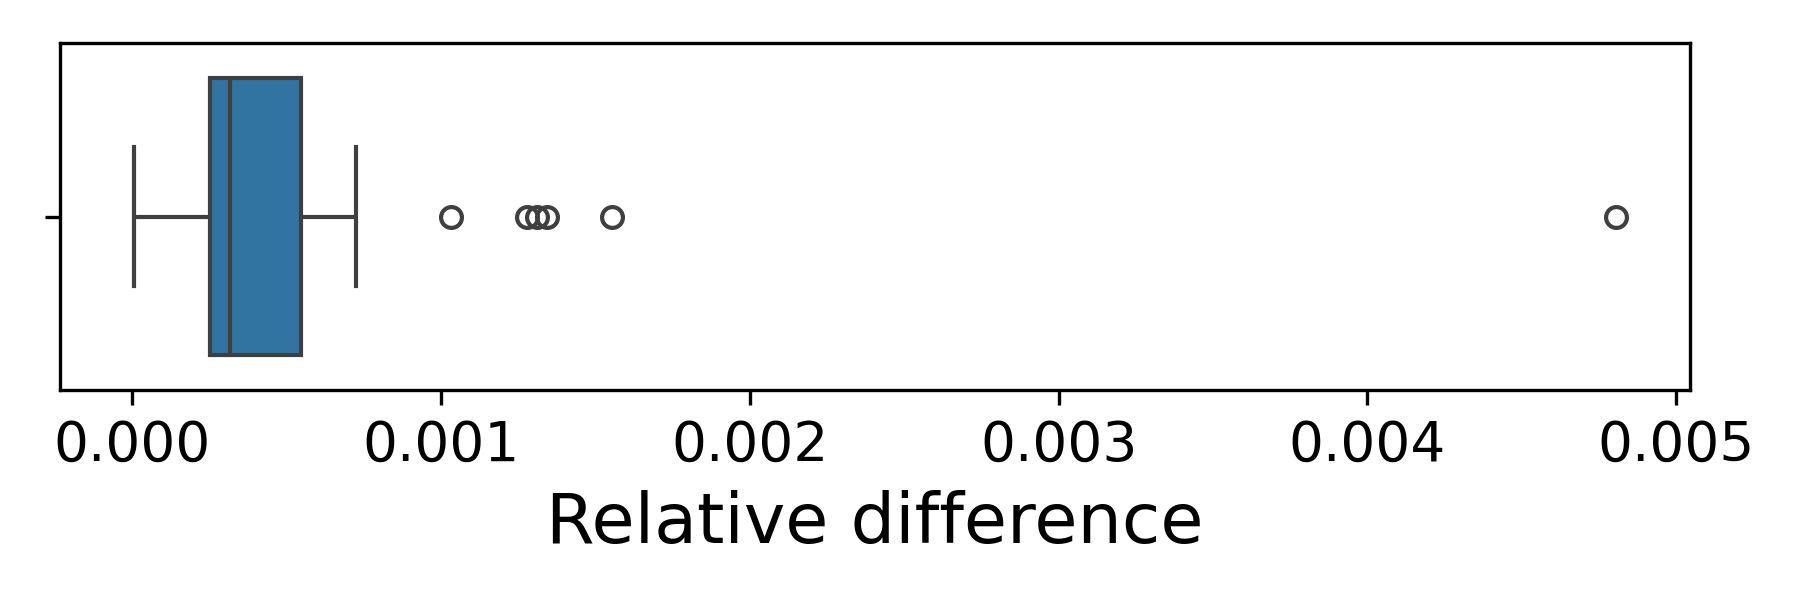
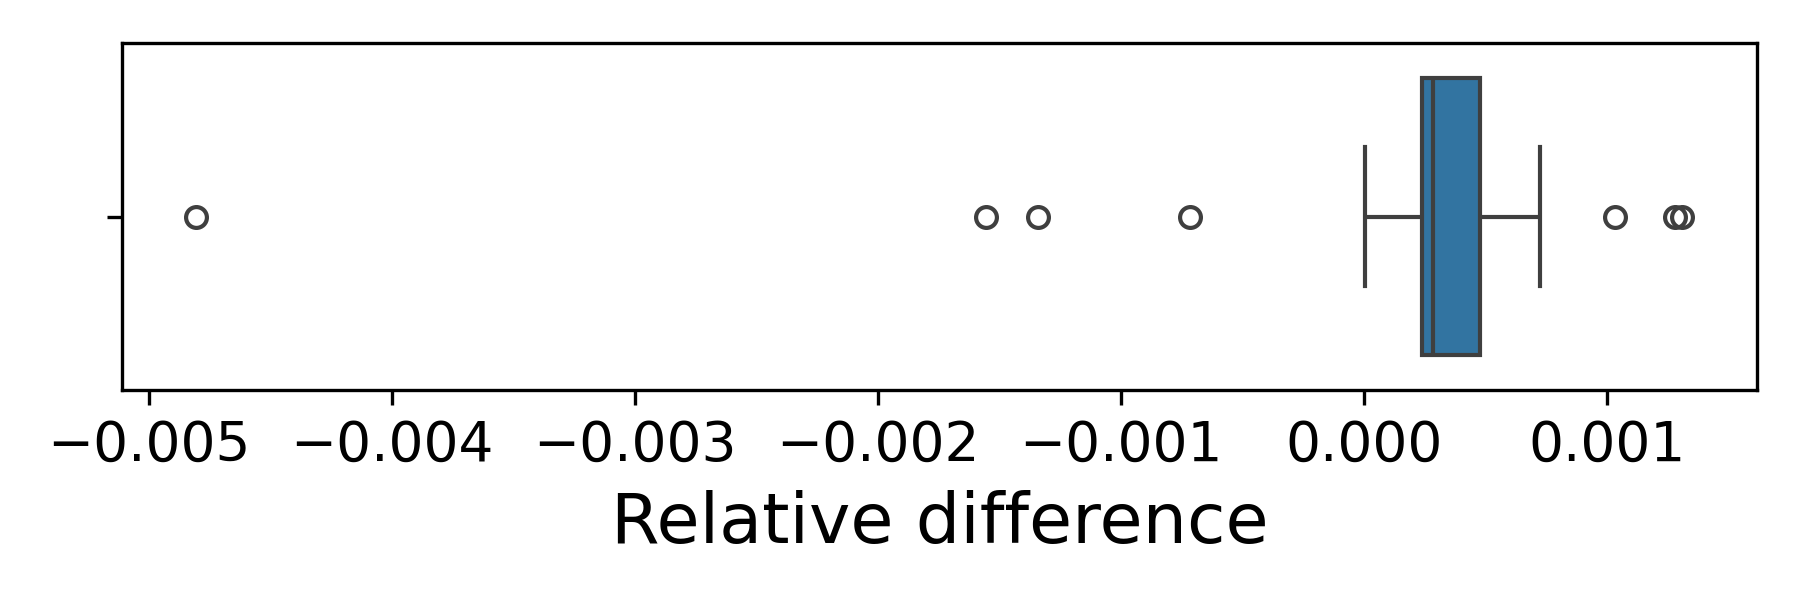
commitiiiniininining

diff --git a/report/report.tex b/report/report.tex
@@ -71,7 +71,7 @@
 				These choices were motivated by our understanding of section 1.4 of [2]. 
 			\subsubsection{WLS Approach}
 			In this section, we consider the normal approximation for the binomial variable $R$ (the same-side flips within a sequence) with denominator $m$ (number of flips within a sequence). 
-			Having that the success probability is fairly close to 0.5 we get $p(1-p)\approx1/4$. Hence we end up with the approximation $R/m \sim N(p,1/(4m))$. 
+			Having that the success probability is fairly close to 0.5 we get $p(1-p)\approx1/4$. We end up with the approximation $R/m \sim N(p,1/(4m))$. 
 
 			\begin{table}[htb]
 				\centering
@@ -128,7 +128,7 @@
 				p(\texttt{person},\texttt{coin},\texttt{agg}) = \alpha_0 + \alpha_{\texttt{person}}+\alpha_{\texttt{coin}} +\alpha_{\texttt{agg}}\cdot\texttt{agg} +\alpha_{\texttt{person},\texttt{coin}} + \epsilon_{\texttt{person},\texttt{coin},\texttt{agg}},
 			\end{equation}
 			where parameter $\alpha_0$ is a constant. To each person (resp. coin) is is associated a parameter
-			$\alpha_{\texttt{person}}$ (resp. $\alpha_{\texttt{coin}}$). To each person-coin pair is also associated a parameter $\alpha_{\texttt{person},\texttt{coin}}$. The coefficient $\alpha_{\texttt{agg}}$ represents the impact of time (number of the sequence). All other models are nested versions where some of the coefficients are imposed to be equal to 0.
+			$\alpha_{\texttt{person}}$ (resp. $\alpha_{\texttt{coin}}$). To each person-coin pair is also associated a parameter $\alpha_{\texttt{person},\texttt{coin}}$. The coefficient $\alpha_{\texttt{agg}}$ represents the impact of time (number of the sequence). $\epsilon_{\texttt{person},\texttt{coin},\texttt{agg}}$ is a normal error term. All other models are nested versions where some of the coefficients are imposed to be equal to 0.
 
 			
 			As explained in [3], if interaction terms are not present, one should consider ANOVA of type II when dealing with unbalanced datasets.
@@ -210,15 +210,15 @@
 			\end{figure}	
 		%\newpage
 		\subsection{WLS vs GLM parameters}
-			In this section we would like to compare the coefficients outputted by the GLM and the WLS models. This requires some transformations of the variables as the two models are formulated in different terms. Indeed, in the WLS model, the response is linear with respect to the coefficients, while in the GLM model it is the log odds that is linear in the parameters. Let's for now ignore the role of time in the model (for example by setting time to 0). Let's call $\beta_{p}$ the coefficient corresponding to the person $p$ in the GLM model and $\beta_{0}$ the constant term (intercept). Then the impact on the reponse of selecting the person $p$ as the person throwing the coin will be equal to $\tilde{\beta}_{p}$=expit($\beta_{0}$+$\beta_{p}$)-expit($\beta_{0}$), where expit is the reciprocal function of logit. Thus we have derived this quantity in order to compare it directly to the coefficient $\alpha_{p}$ of the WLS model that consitutes a linear contribution. \ref{fig:parameter_differences_boxplot} reports the boxplot of the relative differences between the WLS parameters $\alpha_{p}$ and the GLM transformed parameters $\tilde{\beta}_{p}$. 
+			In this section we would like to compare the coefficients outputted by the GLM and the WLS models. This requires a transformation of the coefficients as the two models are formulated in different terms. Indeed, in the WLS model, the response is linear with respect to the coefficients, while in the GLM model it is the log odds that is linear in the parameters. Let's for now ignore the role of time in the model (for example by setting time to 0). Let's call $\beta_{p}$ the coefficient corresponding to the person $p$ in the GLM model and $\beta_{0}$ the constant term (intercept). Then the impact on the reponse of selecting the person $p$ as the person throwing the coin will be equal to $\tilde{\beta}_{p}$=expit($\beta_{0}$+$\beta_{p}$)-expit($\beta_{0}$), where expit is the reciprocal function of logit. Thus we have derived this quantity in order to compare it directly to the coefficient $\alpha_{p}$ of the WLS model that consitutes a linear contribution to the predicted probability. \ref{fig:parameter_differences_boxplot} reports the boxplot of the relative differences between the WLS parameters $\alpha_{p}$ and the GLM transformed parameters $\tilde{\beta}_{p}$. 
 			\begin{figure}[htb]
 				\centering
 				\includegraphics[width=0.5\textwidth]{parameter_differences_boxplot}
-				\caption{Relative differences between person coefficients given by WLS and GLM models (($\alpha_{p,WLS}$-$\tilde{\alpha}_{p,GLM}$)/$\alpha_{p,WLS}$).}
+				\caption{Relative differences between person coefficients given by WLS and GLM models (($\alpha_{p}$-$\tilde{\beta}_{p}$)/$\alpha_{p}$).}
 				\label{fig:parameter_differences_boxplot}
 			\end{figure}
 
-			This comparison has been done with the persons parameters as in our models each person covariate can either take value 0 or 1, which makes the linearisation possible. However, the time covariate taking more values, its contribution becomes qualitatively different between the two models as it is linear in time in the WLS (meaning a constant slope of response wrt. time) model and non linear in the GLM model (meaning a varying slope of the response wrt. time). For this reason, the same procedure has not been performed. 
+			This comparison has been done with the persons parameters as in our models each person covariate can either take value 0 or 1, which makes the linearisation possible. However, the time covariate taking more values, its contribution becomes qualitatively different between the two models as it is linear in time in the WLS (meaning a constant slope of response wrt. time) model and non linear in the GLM model (meaning a varying slope of the response wrt. time). For this reason, the same procedure of converting the GLM time parameter to a linear setting has not been performed. 
 		\subsection{Unusual Observations}
 			In this section we present the results whose goal is to provide answers to questions such as ``are there unusual coins or people ?''. 
 
@@ -294,14 +294,14 @@
 
 		The same way, including the coefficients \texttt{person:coin} yields an increase in the AIC value of the model. 
 		Overall, among the models reported in \ref{tab:WLS-AIC}, the selection based on AIC leads to the model \texttt{1+person+agg}. 
-		The LRTs (\ref{tab:WLS-LRT}) also lead to the same selected model. Indeed, these suggest that model \texttt{1+person} is preferred compared to the constant model, and the model \texttt{1+person+agg} is preferred to the \texttt{1+person} one. The last line in \ref{tab:WLS-LRT} shows that the model including the coins is rejected when tested against \texttt{1+person+agg}. The selected model explicitely writes as:  
+		The LRTs (\ref{tab:WLS-LRT}) also lead to the same selected model. Indeed, these suggest that model \texttt{1+person} is preferred compared to the constant model, and the model \texttt{1+person+agg} is preferred to the \texttt{1+person} one. The last line in \ref{tab:WLS-LRT} shows that the model including the coins is rejected when tested against \texttt{1+person+agg}. The selected model for the probability of sucess $p$ for a certain person, coin a sequence  explicitely writes as:  
 		\begin{equation}
 			\label{eq:wls_model}
 			p(\texttt{person},\texttt{coin},\texttt{agg}) = \alpha_0 + \alpha_{\texttt{person}}+\alpha_{\texttt{coin}} +\alpha_{\texttt{agg}}\cdot\texttt{agg} + \epsilon_{\texttt{person},\texttt{coin},\texttt{agg}}.
 		\end{equation}   
 
 		Interestingly, the model \texttt{1+person+agg+person:coin} tested against \texttt{1+person+agg} yields a p-value of 2.04e-2 meaning that person coin interaction effects might still help in explaining part of the variance, even though the AIC-based selection severely rejected them. 
-		Now that we have selected the model, we can interpret the results and in particular the values of the coefficients. Given the definition of the GLM and the link formula used (a logit function), one can interpret the coefficients as follows. For example, the GLM model has an intercept of $\beta_0$ = 0.0773, and let's consider the person corresponding to the highest coefficient $\beta_{TianqiPeng}$ = 0.3370. The model says that if the  person thrwoing the coin is TianqiPeng, then the fitted probability of same-side throw at the first throw (\texttt{agg}=0) is expit($\beta_0+\beta_{TianqiPeng}$)= expit(0.0773+0.3370)= 0.602. After 100 throws (\texttt{agg}=100), the probability drops to ($\beta_0+\beta_{TianqiPeng}+100*$)= expit(0.0773+0.3370+100*(-0.0004))= 0.592.
+		Now that we have selected the model, we can interpret the results and in particular the values of the coefficients. Given the definition of the GLM and the link formula used (a logit function), one can interpret the coefficients as follows. First, the GLM model has an intercept of $\beta_0$ = 0.0773. Now let's consider for example the person corresponding to the highest coefficient $\beta_{TianqiPeng}$ = 0.3370. The model says that if the  person throwing the coin is TianqiPeng, then the fitted probability of same-side throw at the first throw (\texttt{agg}=0) is expit($\beta_0+\beta_{TianqiPeng}$)= expit(0.0773+0.3370)= 0.602. After 10000 throws (\texttt{agg}=100), the probability drops to ($\beta_0+\beta_{TianqiPeng}+\beta_{agg}\cdot agg$)= expit(0.0773+0.3370+100*(-0.0004))= 0.592.
 
 
 		We now move to analysing the diagnostics of the selected model. Figures (a) and (b) in \ref{fig:wls-diagnostic} reveal mostly healthy diagnostic plots. Indeed, the QQ plot shows a reasonably normal distribution of the residuals, with a small fat tail on the left for the smallest residuals. Plot (b) shows that no major trend of residuals is observed with respect to the fitted values. Only the residuals associated to the fitted values of $\approx 0.6$ seem to have a significantly larger variance (indeed the range is the same as for the rest of the data but with a number of samples that is much smaller). This seems to be a specificity of one of the throwers (see \ref{sec:unusual-observations} for more details.)
@@ -324,6 +324,10 @@
 			%Slight anomalies are observed in the QQ plot for the largest and smallest residuals, as well as for the residuals associated to the largest fitted same-side rate. 
 			As for Cook's distances, they are associated to the same entries but change slightly in their values to to the mentioned slight changes in residuals.
 			This ``roughening'' of the diagnostics is surprising given the GLM approach avoids making the unperfect $p(1-p)\approx 1/4$ approximation. We did not find an explanation for it. 
+		
+
+		\subsection{WLS and GLM parameters}
+
 		\subsection{Unusual Observations}\label{sec:unusual-observations}
 			Looking at \ref{fig:unusual-params}, we immediately notice they look really different. Indeed, in the case of coins, the parameters align quite well on the QQ plot, showing that a gaussian could be a good match. In the box-plot, there is a single outlier (associated to 0.02 EUR) and it is not significant. In the person case however : the QQ plot displays really poor fit and  many outliers are present. The most significant are (in order) TianqiPeng, JanYang, and adamF. 
 
